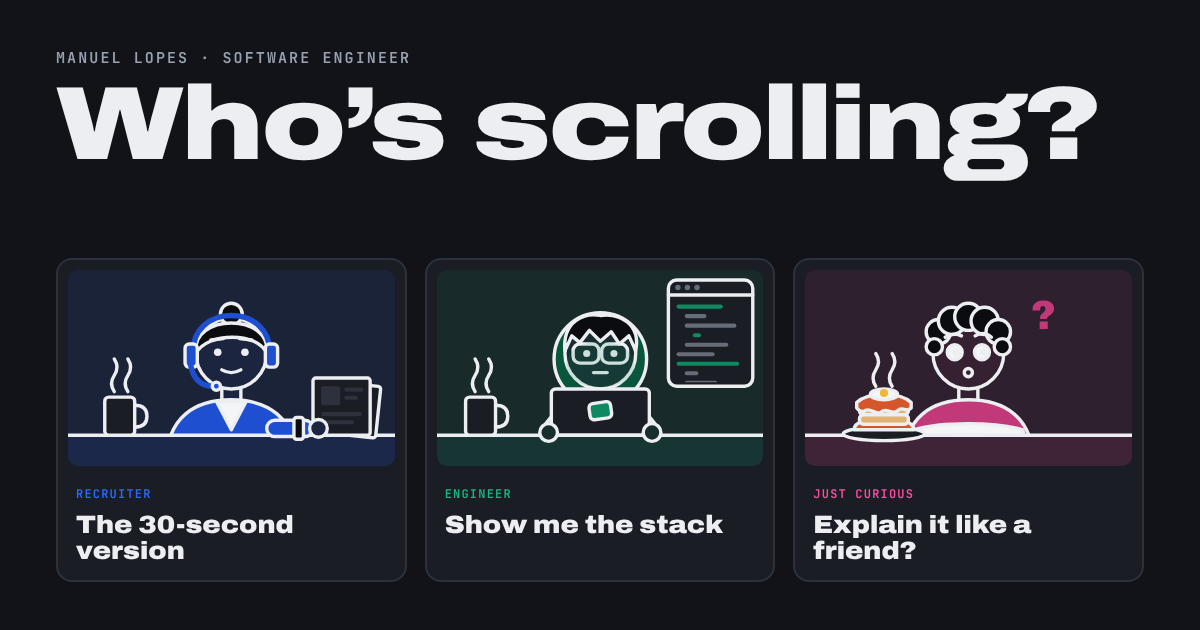
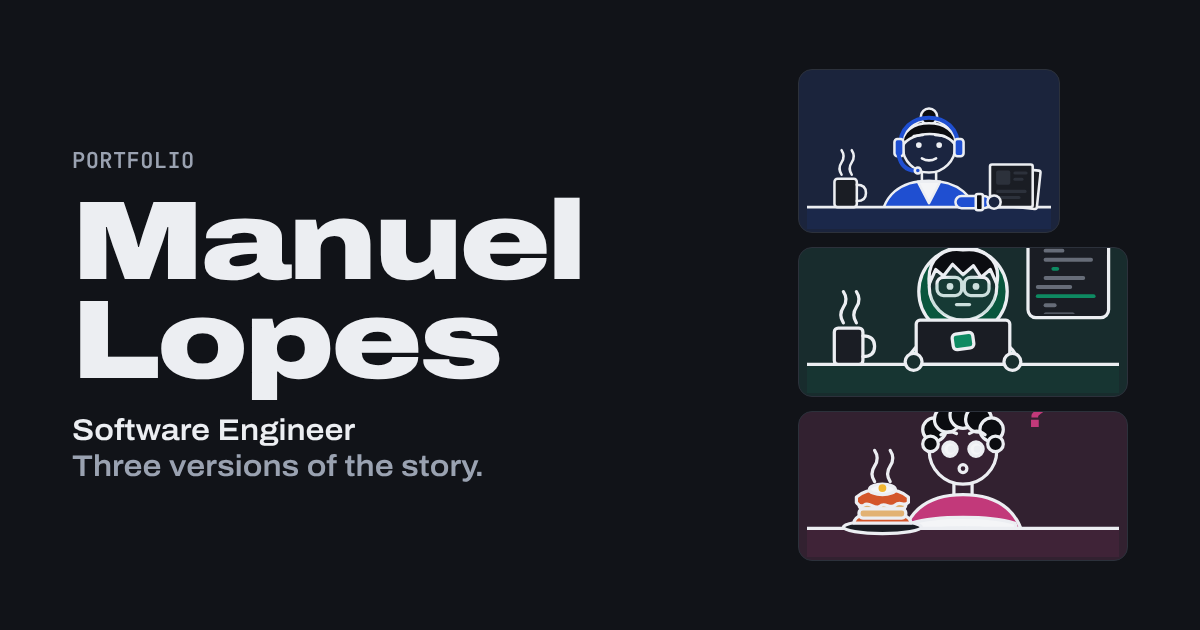
feat(meta): name-led preview image
Claude-Session: https://claude.ai/code/session_01BecHcVTfvKxd7mFw6aDJJ6

diff --git a/index.html b/index.html
@@ -18,7 +18,7 @@
     <meta property="og:image" content="https://manuelclopes.github.io/portfolio/og-image-personas.png" />
     <meta property="og:image:width" content="1200" />
     <meta property="og:image:height" content="630" />
-    <meta property="og:image:alt" content="Who's scrolling? Three cards with illustrated characters: a recruiter, an engineer and a curious visitor." />
+    <meta property="og:image:alt" content="Manuel Lopes, Software Engineer, beside three illustrated characters: a recruiter, an engineer and a curious visitor." />
     <meta property="og:url" content="https://manuelclopes.github.io/portfolio/" />
     <meta name="twitter:card" content="summary_large_image" />
     <link rel="preconnect" href="https://fonts.googleapis.com" />
